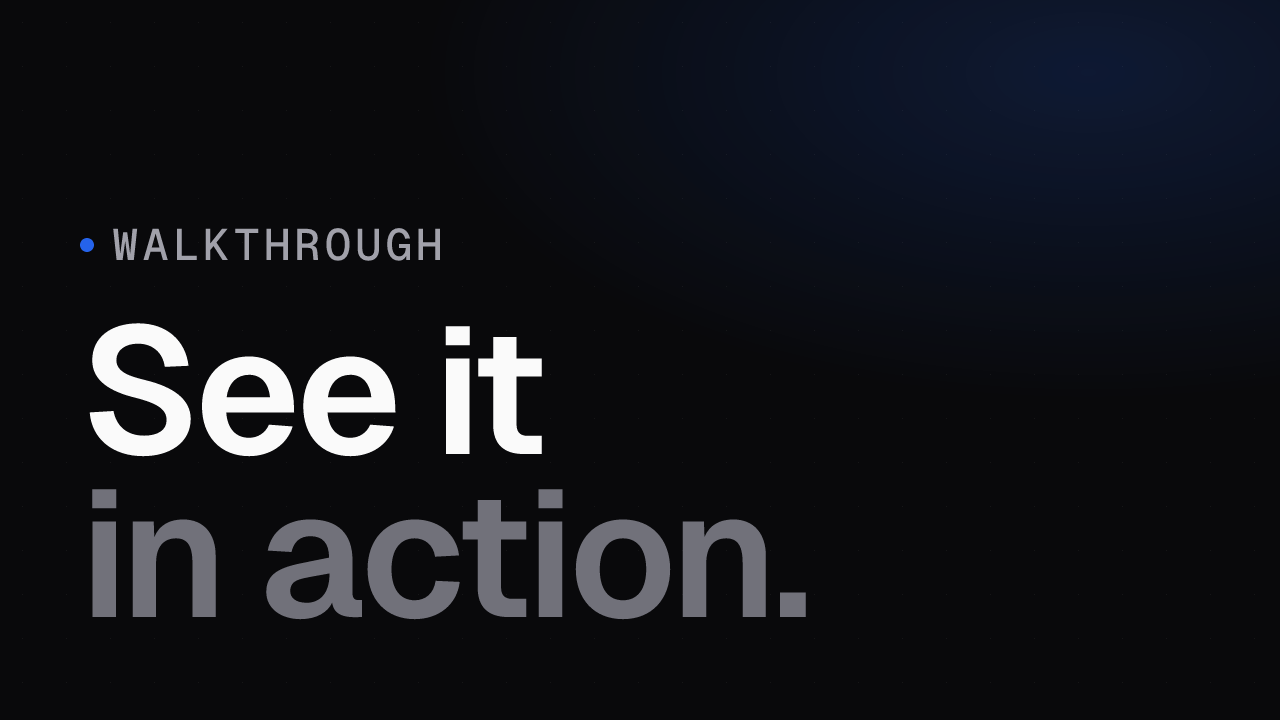
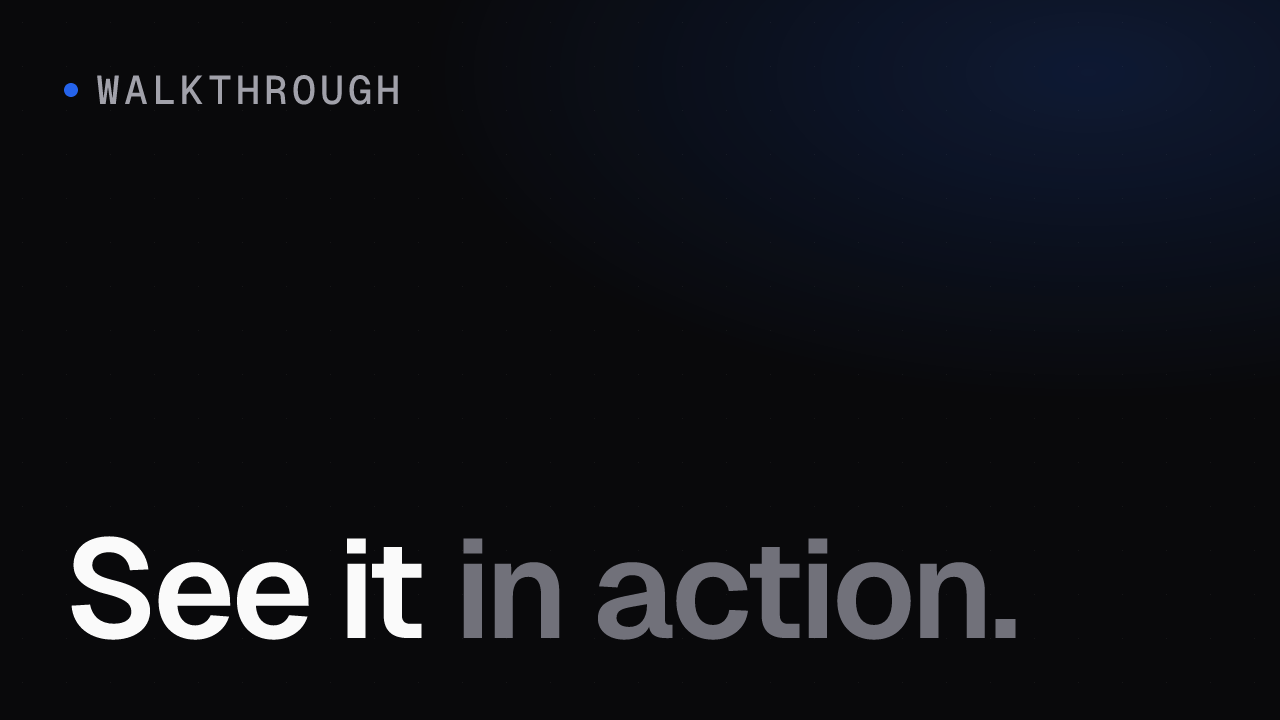
Reflow www demo poster around the play button
Stacked headline collided with Mux's centered play button. Splits the
poster into a top-anchored category tag and a bottom-anchored single
line so the play button has clear space in the middle.

diff --git a/apps/www/scripts/generate-demo-posters.tsx b/apps/www/scripts/generate-demo-posters.tsx
@@ -79,10 +79,10 @@ function PagePoster() {
 			style={{
 				display: "flex",
 				flexDirection: "column",
-				justifyContent: "flex-end",
+				justifyContent: "space-between",
 				width: "100%",
 				height: "100%",
-				padding: 80,
+				padding: 64,
 				backgroundColor: ZINC_950,
 				position: "relative",
 			}}
@@ -107,10 +107,44 @@ function PagePoster() {
 				}}
 			/>
 
+			{/* top: category tag, well clear of the centered play button */}
 			<div
 				style={{
 					display: "flex",
-					flexDirection: "column",
+					alignItems: "center",
+					gap: 18,
+					position: "relative",
+				}}
+			>
+				<div
+					style={{
+						display: "flex",
+						width: 14,
+						height: 14,
+						borderRadius: 999,
+						backgroundColor: BRAND_BLUE,
+					}}
+				/>
+				<div
+					style={{
+						display: "flex",
+						fontFamily: "Geist Mono",
+						fontWeight: 500,
+						fontSize: 40,
+						color: ZINC_400,
+						letterSpacing: 4,
+						textTransform: "uppercase",
+					}}
+				>
+					Walkthrough
+				</div>
+			</div>
+
+			{/* bottom: single-line headline, anchored below the play button */}
+			<div
+				style={{
+					display: "flex",
+					alignItems: "baseline",
 					gap: 32,
 					position: "relative",
 				}}
@@ -118,42 +152,12 @@ function PagePoster() {
 				<div
 					style={{
 						display: "flex",
-						alignItems: "center",
-						gap: 18,
-					}}
-				>
-					<div
-						style={{
-							display: "flex",
-							width: 14,
-							height: 14,
-							borderRadius: 999,
-							backgroundColor: BRAND_BLUE,
-						}}
-					/>
-					<div
-						style={{
-							display: "flex",
-							fontFamily: "Geist Mono",
-							fontWeight: 500,
-							fontSize: 44,
-							color: ZINC_400,
-							letterSpacing: 4,
-							textTransform: "uppercase",
-						}}
-					>
-						Walkthrough
-					</div>
-				</div>
-				<div
-					style={{
-						display: "flex",
 						fontFamily: "Geist Sans",
 						fontWeight: 600,
-						fontSize: 180,
+						fontSize: 140,
 						color: ZINC_50,
 						lineHeight: 0.95,
-						letterSpacing: -6,
+						letterSpacing: -5,
 					}}
 				>
 					See it
@@ -163,11 +167,10 @@ function PagePoster() {
 						display: "flex",
 						fontFamily: "Geist Sans",
 						fontWeight: 600,
-						fontSize: 180,
+						fontSize: 140,
 						color: ZINC_500,
 						lineHeight: 0.95,
-						letterSpacing: -6,
-						marginTop: -40,
+						letterSpacing: -5,
 					}}
 				>
 					in action.
